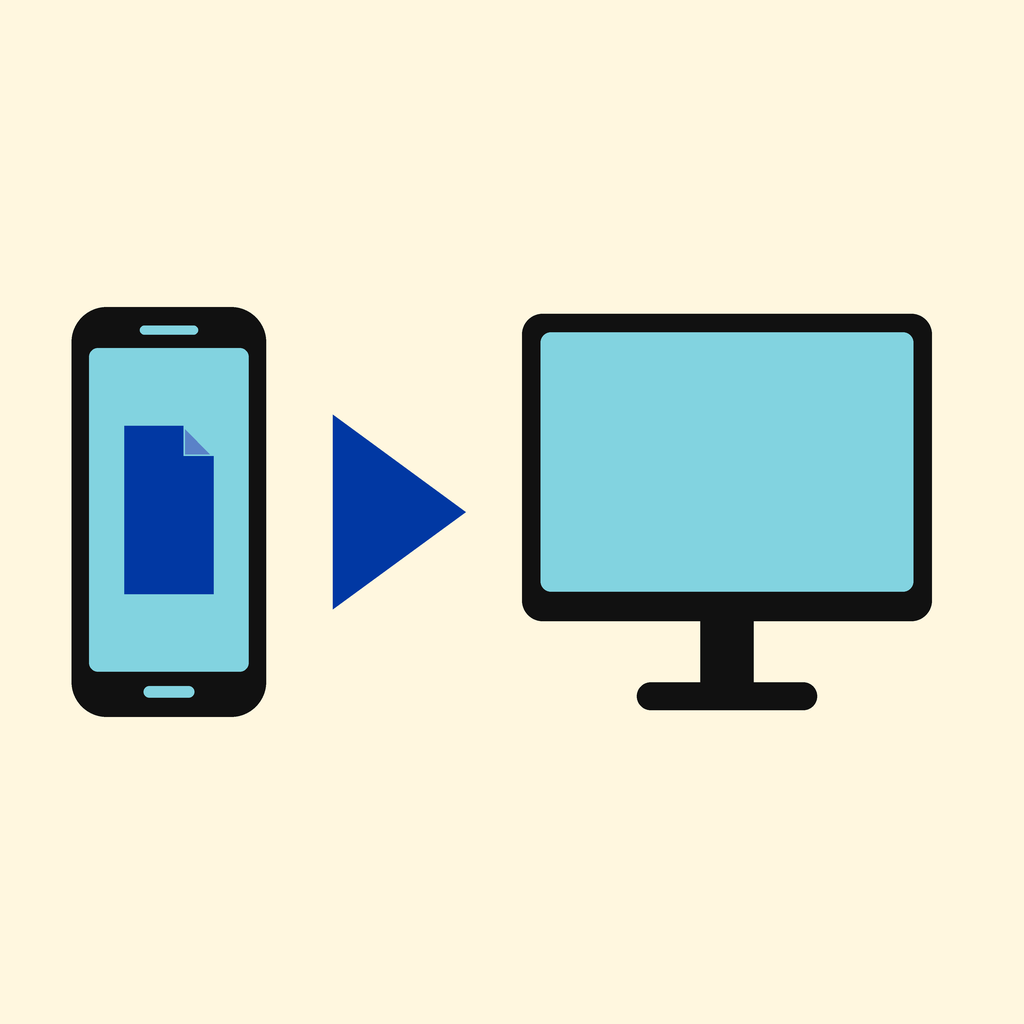
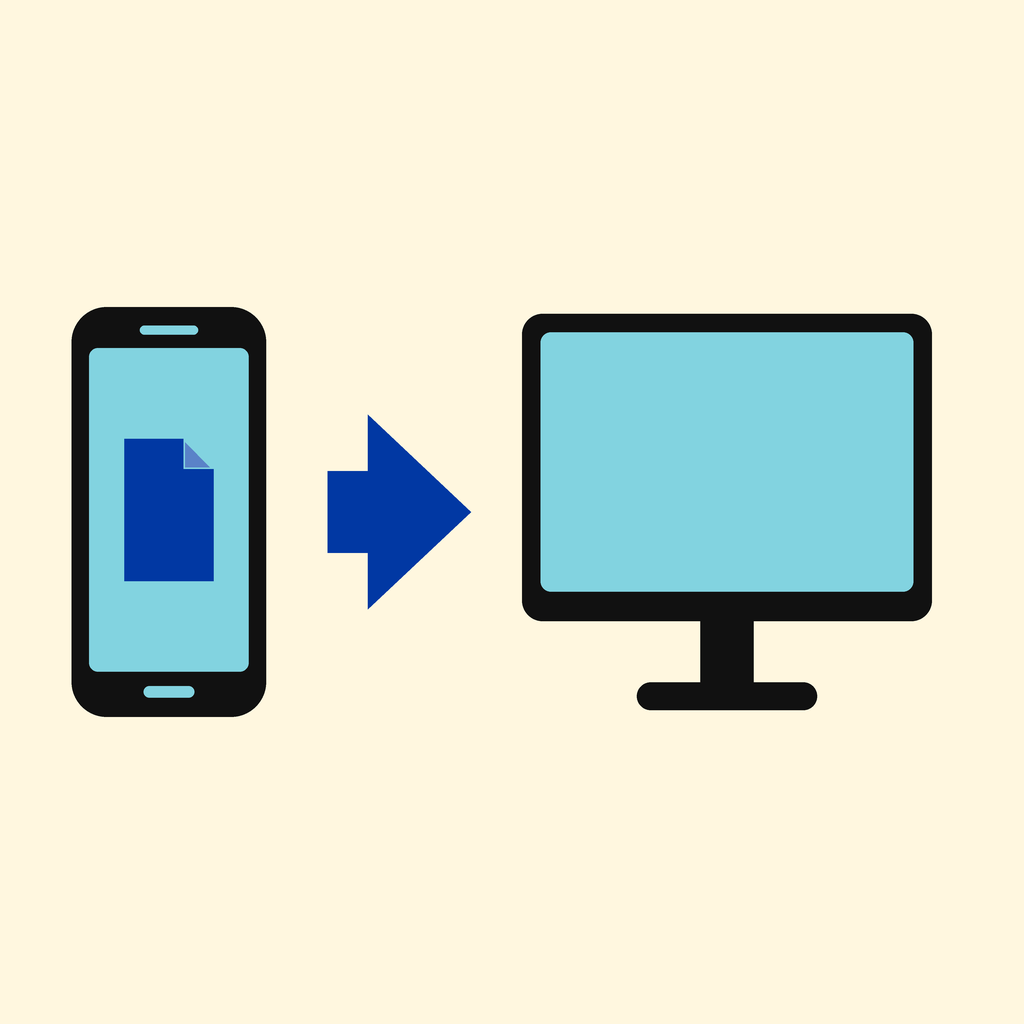
Draw a real arrow, and a shorter sheet

Changed region(s): [[0.3125, 0.4062, 0.4688, 0.5938], [0.125, 0.4062, 0.2188, 0.4688], [0.125, 0.5625, 0.2188, 0.5938]]

diff --git a/tools/make_icon.py b/tools/make_icon.py
@@ -29,13 +29,17 @@ FOLD = (90, 130, 200)  # the turned-over corner of the sheet, a lighter blue
 # so an equal gap on both sides of it reads as a hole on the right: the right one
 # is closed to about half.
 PHONE_W, PHONE_H = 0.235, 0.40
-TRI_W, TRI_H = 0.20, 0.26
+ARROW_W, ARROW_H = 0.20, 0.26
+# The arrow's own proportions: where the head's base stands across the width,
+# and how tall the shaft behind it is. Both as fractions of the arrow itself.
+ARROW_BASE = 0.28
+ARROW_SHAFT = 0.42
 GAP_LEFT = 0.05
 GAP_RIGHT = 0.035
 
 # The sheet on the sender's screen, as a fraction of the screen it lies on. What
 # makes the picture a transfer and not two phones side by side.
-DOC_W, DOC_H = 0.56, 0.52
+DOC_W, DOC_H = 0.56, 0.44
 DOC_FOLD = 0.34  # the folded corner, as a fraction of the sheet's width
 DOC_GAP = 0.18  # how far the flap is pulled off the cut, as a fraction of it
 
@@ -121,8 +125,24 @@ def monitor(d, x, y, w, h):
     )
 
 
-def triangle(d, x, y, w, h):
-    d.polygon([(x, y), (x + w, y + h / 2), (x, y + h)], fill=TRIANGLE)
+def arrow(d, x, y, w, h):
+    """A thick arrow: a short shaft, then a head whose base is the full height.
+    A bare triangle read as a play button; this one reads as movement."""
+    base = x + w * ARROW_BASE
+    shaft = h * ARROW_SHAFT
+    top = y + (h - shaft) / 2
+    d.polygon(
+        [
+            (x, top),
+            (base, top),
+            (base, y),
+            (x + w, y + h / 2),
+            (base, y + h),
+            (base, top + shaft),
+            (x, top + shaft),
+        ],
+        fill=TRIANGLE,
+    )
 
 
 def drawing(background, scale=1.0):
@@ -131,17 +151,17 @@ def drawing(background, scale=1.0):
     im = Image.new("RGBA", (s, s), background)
     d = ImageDraw.Draw(im)
     pw, ph = s * PHONE_W * scale, s * PHONE_H * scale
-    tw, th = s * TRI_W * scale, s * TRI_H * scale
+    aw, ah = s * ARROW_W * scale, s * ARROW_H * scale
     # Laid out left to right from the group's own width, so closing one gap
     # moves the pieces and leaves the whole drawing centred.
-    total = (PHONE_W + GAP_LEFT + TRI_W + GAP_RIGHT + PHONE_W) * scale * s
+    total = (PHONE_W + GAP_LEFT + ARROW_W + GAP_RIGHT + PHONE_W) * scale * s
     x = (s - total) / 2
     # The sheet lies on the left screen and the right one is empty: that is what
     # makes the pair a transfer rather than two phones standing side by side.
     phone(d, x, (s - ph) / 2, pw, ph, sheet=True)
     x += pw + s * GAP_LEFT * scale
-    triangle(d, x, (s - th) / 2, tw, th)
-    x += tw + s * GAP_RIGHT * scale
+    arrow(d, x, (s - ah) / 2, aw, ah)
+    x += aw + s * GAP_RIGHT * scale
     phone(d, x, (s - ph) / 2, pw, ph)
     return im.resize((SIZE, SIZE), Image.LANCZOS)
 
@@ -156,8 +176,8 @@ def desktop_drawing(background):
     # The sheet sits on the phone here too: the desktop build is the receiving
     # end of the same story.
     phone(d, s * 0.07, (s - ph) / 2, pw, ph, sheet=True)
-    tw, th = s * 0.13, s * 0.19
-    triangle(d, s * 0.325, (s - th) / 2, tw, th)
+    aw, ah = s * 0.14, s * 0.19
+    arrow(d, s * 0.32, (s - ah) / 2, aw, ah)
     mw, mh = s * 0.40, s * 0.30
     stand = mh * 0.29  # neck plus foot, so the whole thing can be centred
     monitor(d, s * 0.51, (s - mh - stand) / 2, mw, mh)

diff --git a/CHANGELOG.md b/CHANGELOG.md
@@ -2,6 +2,7 @@
 > N=new feature, E=error fix, F=fine-tune, R=refactor, I=infrastructure, T=tag
 
 ## Unreleased
+- F: A proper arrow in the icon instead of a bare triangle that read as a play button, and a slightly shorter sheet on the screen
 - I: 14-MakeAppImage.sh keeps the three newest images and removes the ones behind them
 - F: The fold on the sheet is cut out of the corner with the flap sitting inside it, a gap of screen showing all round, instead of being told apart by shade alone
 - F: The Linux window icon carries the sheet as well, so the phone is sending something to the monitor and not just standing beside it
